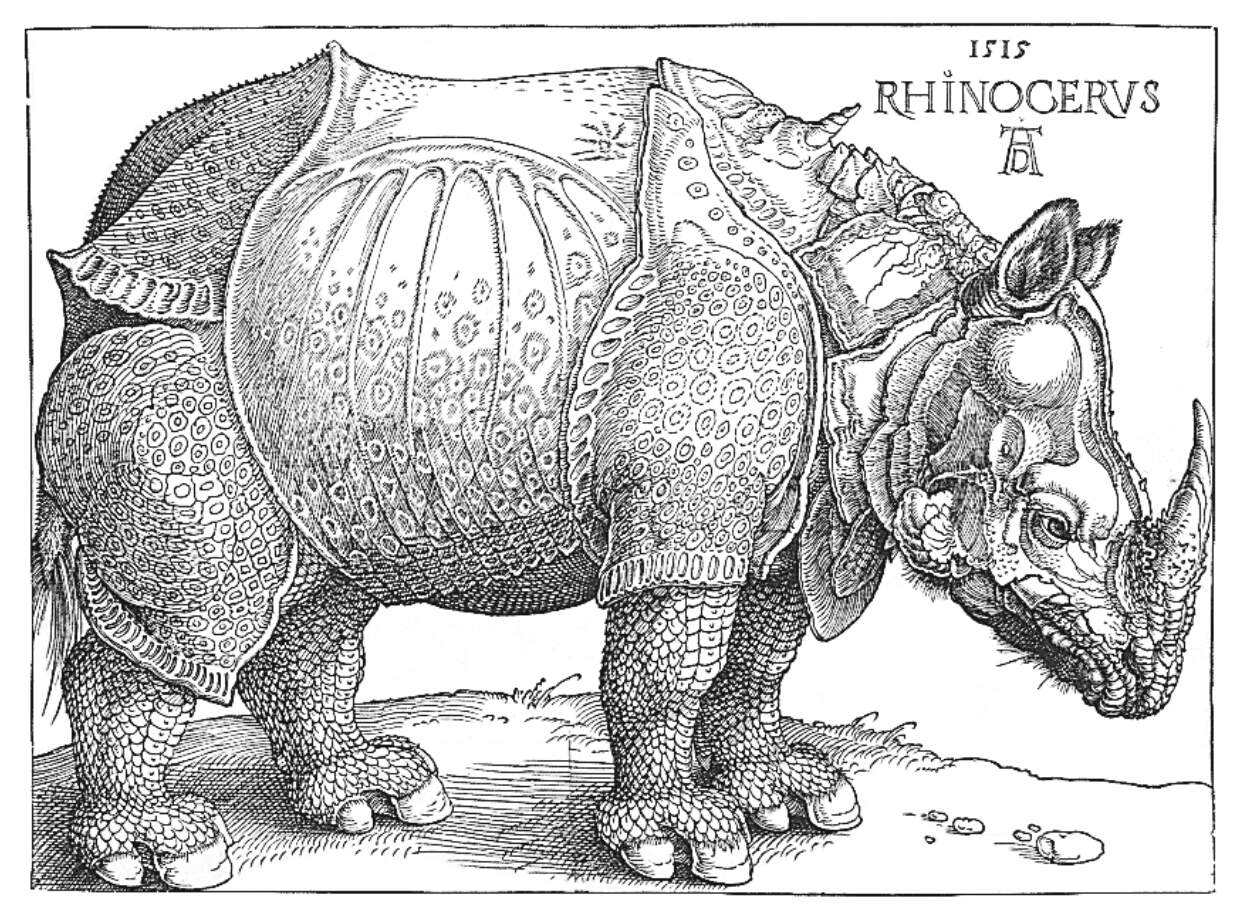
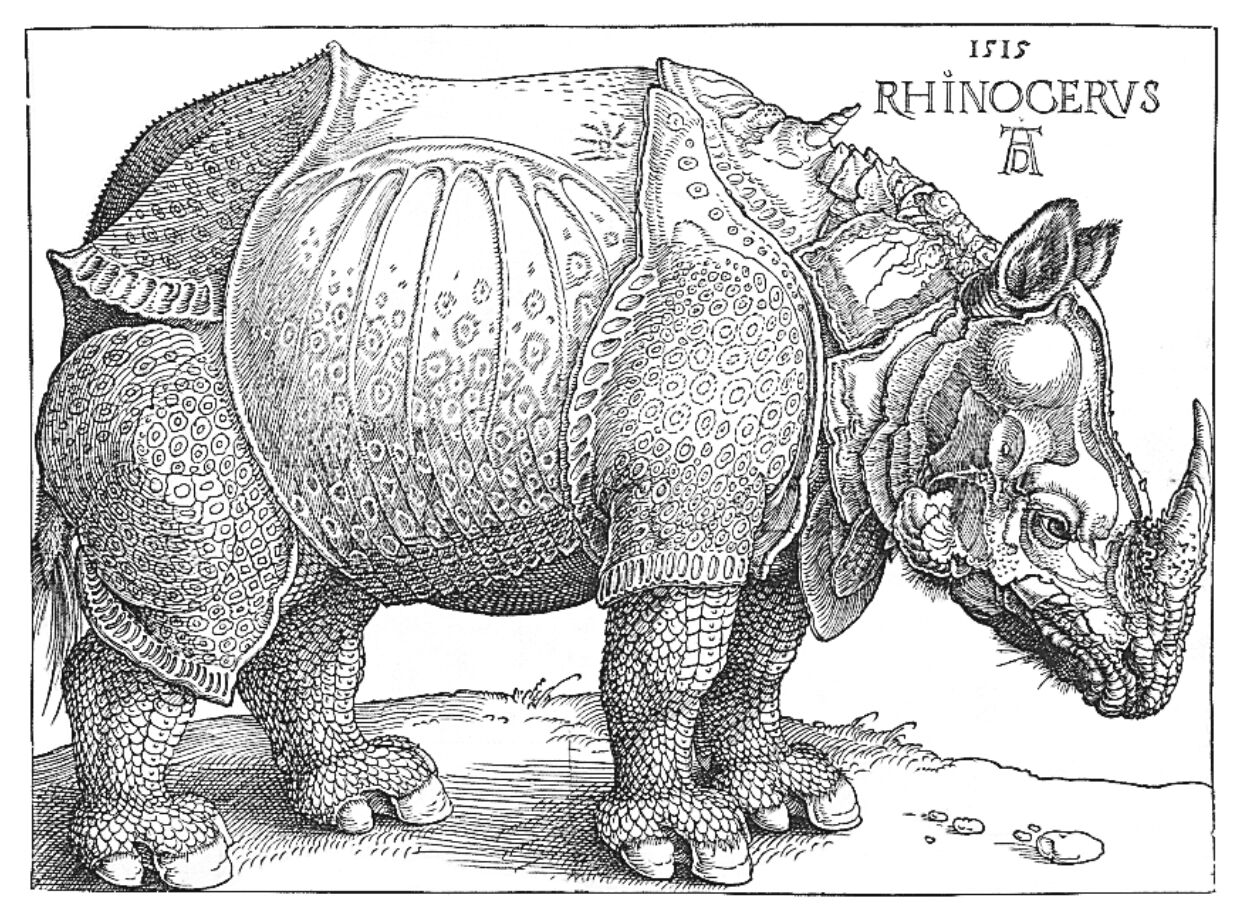
resolve path error

diff --git a/projects/Films/index.html b/projects/Films/index.html
@@ -222,7 +222,7 @@
       https://developer.mozilla.org/en-US/docs/Learn/HTML/Multimedia_and_embedding/Responsive_images for info on defining 'sizes' for responsive images
     -->
     
-    <img src="/assets/img/films/beijing1.png" class="img-fluid rounded z-depth-1" width="100%" height="auto" title="flowers in Yannan Yuan at PKU" loading="eager" onerror="this.onerror=null; $('.responsive-img-srcset').remove();">
+    <img src="/assets/img/films/beijing1.jpg" class="img-fluid rounded z-depth-1" width="100%" height="auto" title="flowers in Yannan Yuan at PKU" loading="eager" onerror="this.onerror=null; $('.responsive-img-srcset').remove();">
   </picture>
 
   
@@ -242,7 +242,7 @@
       https://developer.mozilla.org/en-US/docs/Learn/HTML/Multimedia_and_embedding/Responsive_images for info on defining 'sizes' for responsive images
     -->
     
-    <img src="/assets/img/films/beijing3.png" class="img-fluid rounded z-depth-1" width="100%" height="auto" title="flowers in front of Foreign Languages Building at PKU" loading="eager" onerror="this.onerror=null; $('.responsive-img-srcset').remove();">
+    <img src="/assets/img/films/beijing3.jpg" class="img-fluid rounded z-depth-1" width="100%" height="auto" title="flowers in front of Foreign Languages Building at PKU" loading="eager" onerror="this.onerror=null; $('.responsive-img-srcset').remove();">
   </picture>
 
   
@@ -262,7 +262,7 @@
       https://developer.mozilla.org/en-US/docs/Learn/HTML/Multimedia_and_embedding/Responsive_images for info on defining 'sizes' for responsive images
     -->
     
-    <img src="/assets/img/films/beijing4.png" class="img-fluid rounded z-depth-1" width="100%" height="auto" title="example image" loading="eager" onerror="this.onerror=null; $('.responsive-img-srcset').remove();">
+    <img src="/assets/img/films/beijing4.jpg" class="img-fluid rounded z-depth-1" width="100%" height="auto" title="example image" loading="eager" onerror="this.onerror=null; $('.responsive-img-srcset').remove();">
   </picture>
 
   
@@ -317,7 +317,7 @@ You describe how you toiled, sweated, _bled_ for your project, and then... you r
       https://developer.mozilla.org/en-US/docs/Learn/HTML/Multimedia_and_embedding/Responsive_images for info on defining 'sizes' for responsive images
     -->
     
-    <img src="/assets/img/films/cq1.png" class="img-fluid rounded z-depth-1" width="100%" height="auto" loading="lazy" onerror="this.onerror=null; $('.responsive-img-srcset').remove();">
+    <img src="/assets/img/films/cq1.jpg" class="img-fluid rounded z-depth-1" width="100%" height="auto" loading="lazy" onerror="this.onerror=null; $('.responsive-img-srcset').remove();">
   </picture>
 
   
@@ -337,7 +337,7 @@ You describe how you toiled, sweated, _bled_ for your project, and then... you r
       https://developer.mozilla.org/en-US/docs/Learn/HTML/Multimedia_and_embedding/Responsive_images for info on defining 'sizes' for responsive images
     -->
     
-    <img src="/assets/img/films/cq2.png" class="img-fluid rounded z-depth-1" width="100%" height="auto" loading="lazy" onerror="this.onerror=null; $('.responsive-img-srcset').remove();">
+    <img src="/assets/img/films/cq2.jpg" class="img-fluid rounded z-depth-1" width="100%" height="auto" loading="lazy" onerror="this.onerror=null; $('.responsive-img-srcset').remove();">
   </picture>
 
   

diff --git a/projects/index.html b/projects/index.html
@@ -239,7 +239,7 @@
       https://developer.mozilla.org/en-US/docs/Learn/HTML/Multimedia_and_embedding/Responsive_images for info on defining 'sizes' for responsive images
     -->
     
-    <img src="/assets/img/AirBookingSystem.png" class="card-img-top" width="100%" height="auto" alt="project thumbnail" loading="eager" onerror="this.onerror=null; $('.responsive-img-srcset').remove();">
+    <img src="/assets/img/AirBookingSystem.jpg" class="card-img-top" width="100%" height="auto" alt="project thumbnail" loading="eager" onerror="this.onerror=null; $('.responsive-img-srcset').remove();">
   </picture>
 
   
@@ -274,7 +274,7 @@
       https://developer.mozilla.org/en-US/docs/Learn/HTML/Multimedia_and_embedding/Responsive_images for info on defining 'sizes' for responsive images
     -->
     
-    <img src="/assets/img/DiabetesEase.png" class="card-img-top" width="100%" height="auto" alt="project thumbnail" loading="eager" onerror="this.onerror=null; $('.responsive-img-srcset').remove();">
+    <img src="/assets/img/DiabetesEase.jpg" class="card-img-top" width="100%" height="auto" alt="project thumbnail" loading="eager" onerror="this.onerror=null; $('.responsive-img-srcset').remove();">
   </picture>
 
   
@@ -321,7 +321,7 @@
       https://developer.mozilla.org/en-US/docs/Learn/HTML/Multimedia_and_embedding/Responsive_images for info on defining 'sizes' for responsive images
     -->
     
-    <img src="/assets/img/Film.png" class="card-img-top" width="100%" height="auto" alt="project thumbnail" loading="eager" onerror="this.onerror=null; $('.responsive-img-srcset').remove();">
+    <img src="/assets/img/Film.jpg" class="card-img-top" width="100%" height="auto" alt="project thumbnail" loading="eager" onerror="this.onerror=null; $('.responsive-img-srcset').remove();">
   </picture>
 
   
@@ -356,7 +356,7 @@
       https://developer.mozilla.org/en-US/docs/Learn/HTML/Multimedia_and_embedding/Responsive_images for info on defining 'sizes' for responsive images
     -->
     
-    <img src="/assets/img/HyruleTour.png" class="card-img-top" width="100%" height="auto" alt="project thumbnail" loading="eager" onerror="this.onerror=null; $('.responsive-img-srcset').remove();">
+    <img src="/assets/img/HyruleTour.jpg" class="card-img-top" width="100%" height="auto" alt="project thumbnail" loading="eager" onerror="this.onerror=null; $('.responsive-img-srcset').remove();">
   </picture>
 
   

diff --git a/blog/2024/tabs/index.html b/blog/2024/tabs/index.html
@@ -272,7 +272,7 @@ Content 2
 
 <p>With this you can generate visualizations like:</p>
 
-<ul id="log" class="tab" data-tab="62113941-98e1-48f7-aed1-8306176132fa" data-name="log">
+<ul id="log" class="tab" data-tab="75fbee25-565c-4012-aaf9-0be6ef6aee81" data-name="log">
   
       <li class="active" id="log-php">
           <a href="#">php </a>
@@ -287,7 +287,7 @@ Content 2
       </li>
   
 </ul>
-<ul class="tab-content" id="62113941-98e1-48f7-aed1-8306176132fa" data-name="log">
+<ul class="tab-content" id="75fbee25-565c-4012-aaf9-0be6ef6aee81" data-name="log">
   
       <li class="active">
 <div class="language-php highlighter-rouge"><div class="highlight"><pre class="highlight"><code><span class="nb">var_dump</span><span class="p">(</span><span class="s1">'hello'</span><span class="p">);</span>
@@ -311,7 +311,7 @@ Content 2
 
 <h2 id="another-example">Another example</h2>
 
-<ul id="data-struct" class="tab" data-tab="fd8f6f8f-847c-4a17-b4d1-85dafac99a9f" data-name="data-struct">
+<ul id="data-struct" class="tab" data-tab="6f696c66-a980-4cff-80d5-2d4afaefb8b2" data-name="data-struct">
   
       <li class="active" id="data-struct-yaml">
           <a href="#">yaml </a>
@@ -322,7 +322,7 @@ Content 2
       </li>
   
 </ul>
-<ul class="tab-content" id="fd8f6f8f-847c-4a17-b4d1-85dafac99a9f" data-name="data-struct">
+<ul class="tab-content" id="6f696c66-a980-4cff-80d5-2d4afaefb8b2" data-name="data-struct">
   
       <li class="active">
 <div class="language-yaml highlighter-rouge"><div class="highlight"><pre class="highlight"><code><span class="na">hello</span><span class="pi">:</span>
@@ -344,7 +344,7 @@ Content 2
 
 <h2 id="tabs-for-something-else">Tabs for something else</h2>
 
-<ul id="something-else" class="tab" data-tab="bf58094a-e1c3-4843-994d-0e9a2a0b2f56" data-name="something-else">
+<ul id="something-else" class="tab" data-tab="d688d36a-00d7-4219-9116-6442c0cc403b" data-name="something-else">
   
       <li class="active" id="something-else-text">
           <a href="#">text </a>
@@ -359,7 +359,7 @@ Content 2
       </li>
   
 </ul>
-<ul class="tab-content" id="bf58094a-e1c3-4843-994d-0e9a2a0b2f56" data-name="something-else">
+<ul class="tab-content" id="d688d36a-00d7-4219-9116-6442c0cc403b" data-name="something-else">
   
       <li class="active">
 <p>Regular text</p>
